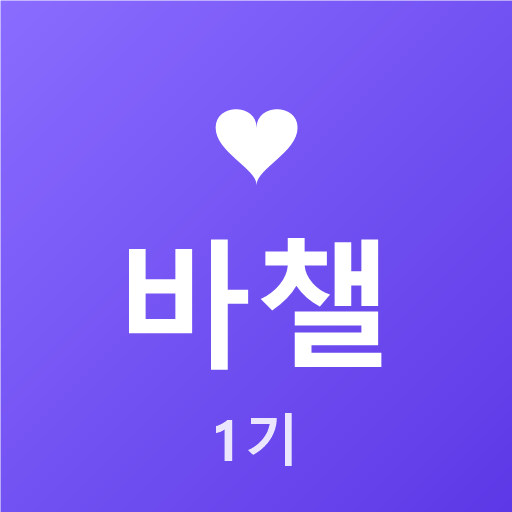
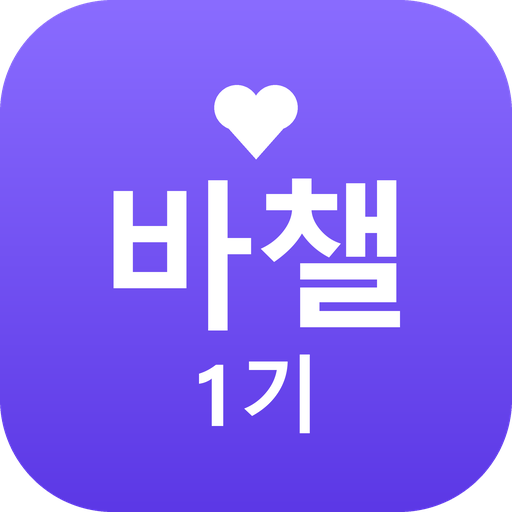
앱 아이콘: 하트·바챌·1기 간격 줄여 가운데 정렬, 안드로이드용 maskable 아이콘 분리

diff --git a/sw.js b/sw.js
@@ -1,6 +1,6 @@
 // 바챌 1기 서비스워커 — 앱 화면과 이미지를 저장해 오프라인에서도 열리게 합니다.
 // tools/update-media.ps1 을 실행하면 VERSION 이 자동으로 올라갑니다.
-const VERSION = 'bachal1-202610222101';
+const VERSION = 'bachal1-202610222146';
 const SHELL = [
   './',
   'index.html',
@@ -11,6 +11,7 @@ const SHELL = [
   'manifest.webmanifest',
   'icons/icon-192.png',
   'icons/icon-512.png',
+  'icons/icon-maskable-512.png',
   'icons/apple-touch-icon.png',
 ];
 
